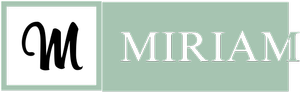
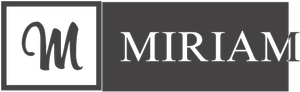
image change

diff --git a/index.html b/index.html
@@ -14,8 +14,8 @@
     <header>
         <div class="top-bar">
             <nav class="navBar">
-                <img src="./images/mimi1.png" alt="logo" />
-                <!-- <h2>M</h2> -->
+                <img src="images/mimi.png" alt="logo" />
+                <!-- <img src="https://dewey.tailorbrands.com/production/brand_version_mockup_image/522/4927061522_4f814c6e-fa84-4aeb-9ac0-0b785c3ba6a2.png?cb=1616567829"   alt="logo" /> -->
             </nav>
             <div id="nav-btn">
                 <button id="main-btn" onclick="show()"><img src="./images/drop-down.svg" alt="drop-down" /></button>
